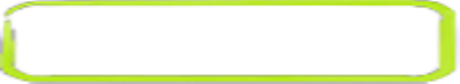
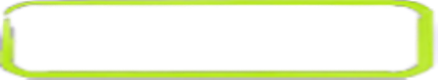
Add files via upload
-Change: Asset used for menu
        -different image
        -update code accordingly

Changed region(s): [[0.0594, 0.175, 1.0, 0.975], [0.0, 0.025, 0.9795, 0.2], [0.0, 0.225, 0.0297, 0.25]]

diff --git a/Frogger/main.py b/Frogger/main.py
@@ -12,7 +12,7 @@ import os
 
 DEBUG = False
 """ ==== Define constants ==== """
-SCREEN_WIDTH = 879
+SCREEN_WIDTH = 1024
 SCREEN_HEIGHT = 600
 FPS = 300
 
@@ -33,7 +33,7 @@ assetPath_sounds = "Assets\sounds"
 
 class MainMenu:
     def __init__(self):
-        self.blank = pygame.image.load(image("menu3.jpg"))
+        self.blank = pygame.image.load(image("menu4.png"))
         self.buttonPos = self.blank.get_width() / 2
         self.resume = pygame.image.load(image("resume.png"))
         self.resumePos = getCenter(self.resume, -10, (SCREEN_HEIGHT / 7.2))
@@ -284,7 +284,7 @@ def death(lives):
 
 
 def car_Spawn(diff):
-    for i in range(diff):
+    for i in range(2 + diff):
         x = randrange(0, SCREEN_WIDTH)
         overlapping = True
         speed = 4
